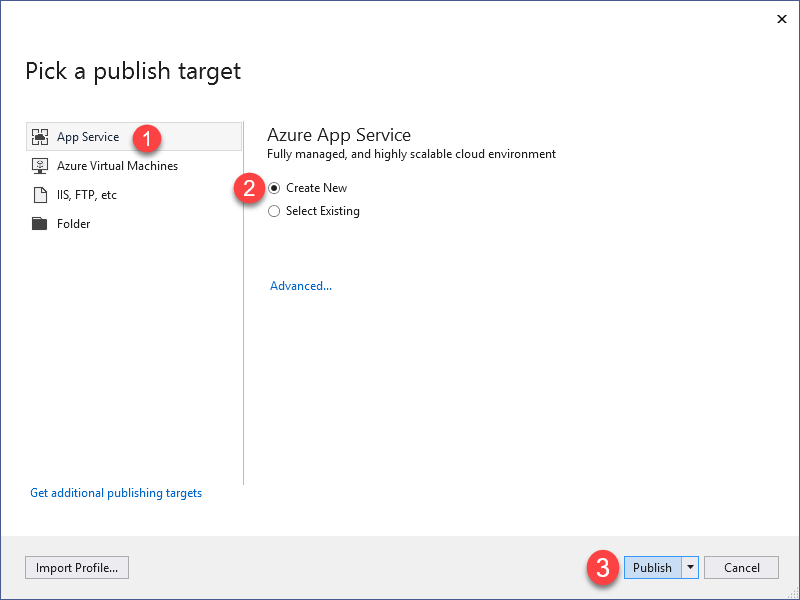
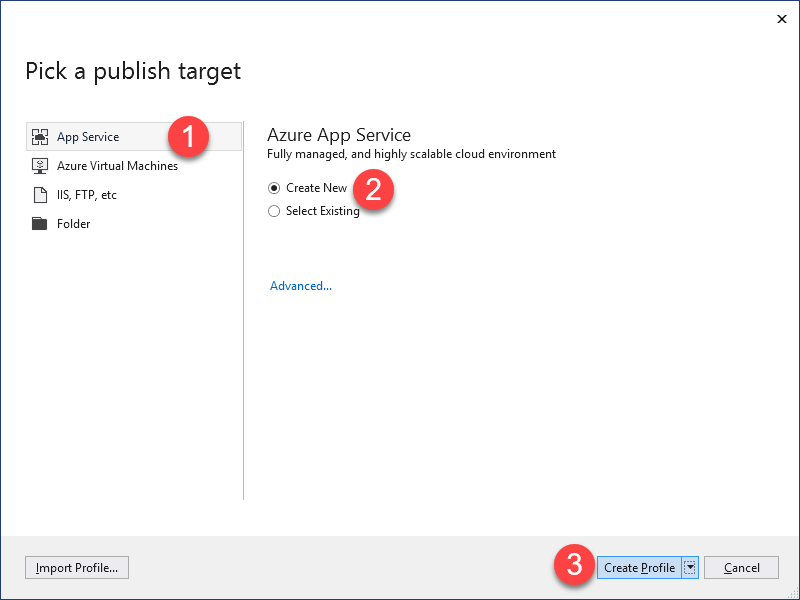
updated logic app walkthrough

diff --git a/Documents/DemoScripts/Modernizing .NET Apps/Readme.md b/Documents/DemoScripts/Modernizing .NET Apps/Readme.md
@@ -26,15 +26,15 @@ When the local infrastructure is outgrowing on which the application is hosted, 
 
     ![Launch VS](Images/launchvs.png)
 
-1. Click the **Clone or check out code** option and enter the **Tailwind Traders Rewards** repository URL – https://github.com/Microsoft/TailwindTraders-Rewards.git in the Code Repository Location and click **Clone**. Under the **Solutions and Folders**, click **Tailwind.Traders.Rewards.sln** to open the solution.
+1. Click the **Clone or check out code** option and enter the **Tailwind Traders Rewards** repository URL – https://github.com/Microsoft/TailwindTraders-Rewards.git in the Code Repository Location and click **Clone**. Under the **Solutions and Folders**, click **Tailwind.Traders.Rewards.Website.sln** to open the solution.
 
     ![Rewards Clone](Images/clonerepo.png)
 
-1. Right-click the project **Tailwind.Traders.Rewards.Web** and choose **Publish**. This is the same Publish dialog box that you can use to deploy onto **IIS6** in your local infrastructure. Using this *Publish* dialog, you will deploy the application to Azure cloud. 
+1. Right-click the project **Tailwind.Traders.Rewards.Website** and choose **Publish**. This is the same Publish dialog box that you can use to deploy onto **IIS6** in your local infrastructure. Using this *Publish* dialog, you will deploy the application to Azure cloud. 
 
     ![Publish App](Images/publishapp.png)
 
-1. Choose **App Service** as the Publish target. Under the **Azure App Service** window, choose **Create New** and click **Publish**.
+1. Choose **App Service** as the Publish target. Under the **Azure App Service** window, choose **Create New** and click **Create Profile**.
 
     ![Publish Options](Images/appprofile.png)
 
@@ -113,7 +113,9 @@ Now that the Azure web app is running, let's look at some options available in t
 
 Now that we have seen how to deploy an application onto Azure and how to get some richer debug information, let's head back to the application mode. **Azure Logic Apps** simplifies how you build automated scalable workflows that integrate apps and data across cloud services and on-premises systems. We have a large number of connectors that we could use for instance the Azure service bus to make HTTP requests, SAP connectors, etc.
 
-1. On the left side of the application, you will see an option **Enroll in loyalty program**. The supposed functionality of this option is that every time the checkbox is clicked, a workflow is started to verify the user and enroll them in Tailwind Traders' loyalty program.  When you check that check-box, you will only see a *Enrollment in process* message.
+The scenario in this walkthrough is that when the customer enrolls in a loyalty program, depending on the country registered as either **Mexico** or **Spain**, the email content will be translated to the respective language. 
+
+1. On the left side of the application, you will see an option **Enroll in loyalty program**. The supposed functionality of this option is that every time the checkbox is clicked, a workflow is started to verify the user, country registered and enroll them in Tailwind Traders' loyalty program with an email confirmation in their local language (for Spain and Mexico).  When you check that check-box, you will only see a *Enrollment in process* message.
 
     ![Enroll program](Images/enrollprogram.png)
 
@@ -152,7 +154,22 @@ Now that we have seen how to deploy an application onto Azure and how to get som
     ![Details](Images/custdetail.png)
     ![Dynamic content](Images/dynamiccontent.png)
 
-1. In the search bar, type **send an email** and select the **Send and Email Office 365 Outlook** action to configure and send the email.
+1. In the search box, enter **condition** as your filter. Select this action: *Condition - Control*. Change the clause to **Or**, choose **Country** as the dynamic content for both the rows and **Spain**, **Mexico** as values.
+
+    ![Country](Images/countrycondition.png)
+
+1. Under **If true** and **If false**, add the steps to perform based on whether the condition is met. Let's look at **If true**. Insert a new action **microsoft translator v2** and choose **translate text(preview)** under **Actions**. 
+
+    ![Translate Text](Images/translatetext1.png)
+
+1. Choose the **Target Language** as **Spanish** and add the **Text** as in the below picture. Choose *FirstName, LastName, AccountCode* from the dynamic content list. 
+
+    `Welcome to our rewards program ['FirstName']['LastName']
+Your account code is ['AccountCode']`
+
+    ![Text](Images/translatetext2.png)
+
+1. In the search bar, type **Send an email** and select the **Send and Email Office 365 Outlook** action to configure and send the email.
 
     ![Email](Images/sendanemail.png)
 
@@ -160,8 +177,16 @@ Now that we have seen how to deploy an application onto Azure and how to get som
 
     ![Office365](Images/o365signin.png)
 
-1. Using the **Dynamic Content** from the database enter the **email address**, and personalize the subject and body of the email.
+1. Using the **Dynamic Content** from the database enter **email** for **To** field, fill the **Subject** as *Tailwind Traders Rewards* and choose **Translated text** from dynamic content for **Body**.
 
     ![Email Config](Images/editemail.png)
 
-1. Once you are done click on save and then run. Now, the corresponding records are going to be  updated in the database which will essentially flip a flag that enrolls the customer to the loyalty program and sends them a welcome email.
+1. Under **If false**, let's add an action **Send an email** from the search bar and select the **Send and Email Office 365 Outlook** action to configure and send the email. Using the **Dynamic Content** from the database enter **email** for **To** field, fill the **Subject** as *Tailwind Traders Rewards* and use *Dynamic Content* to write the email **Body** as shown in the picture.
+
+    ![False Condition](Images/falseconditionmail.png)
+
+1. Click to save the Logic app work flow and return to the website. Now, click the **Enroll in loyalty program** checkbox. Now, the corresponding records are going to be updated in the database which will essentially flip a flag that enrolls the customer to the loyalty program and sends them a welcome email in the respective language.
+
+    ![Welcome Email](Images/welcomemailspanish.png)
+
+    ![Welcome Email Eng](Images/welcomemailenglish.png)
